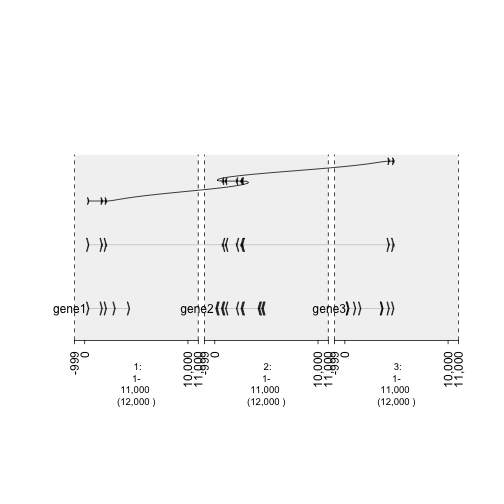
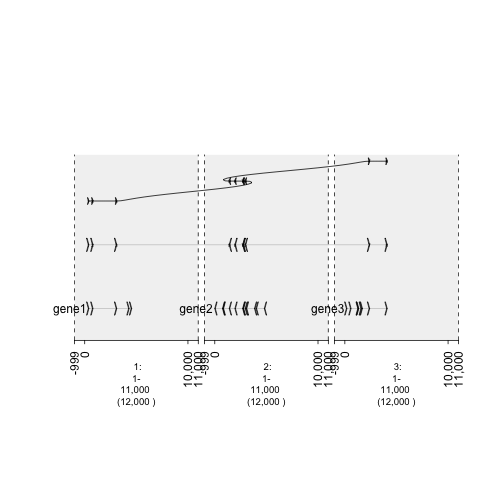
edit hotspots vignette

diff --git a/rtdocs/vignetteHotspots/vignetteHotspots.rst b/rtdocs/vignetteHotspots/vignetteHotspots.rst
@@ -15,9 +15,38 @@ To simulate the draw.paths and gr.labelfield parameters, a GRangesList storing R
     
 
     gene1 = sort(sample(gr.tile(parse.gr('1:1-5e3+'), 50), 5))
-    gene2 = rev(sort(sample(gr.tile(parse.gr('2:1-5e3-'), 50), 12)))
-    gene3 = sort(sample(gr.tile(parse.gr('3:1-5e3+'), 50), 8))
+
+
+::
+
+    ## Error in (function (classes, fdef, mtable) : unable to find an inherited method for function 'values<-' for signature '"GRanges"'
+
+
+.. sourcecode:: r
     
+
+    gene2 = rev(sort(sample(gr.tile(parse.gr('2:1-5e3-'), 50), 12)))
+
+
+::
+
+    ## Error in (function (classes, fdef, mtable) : unable to find an inherited method for function 'values<-' for signature '"GRanges"'
+
+
+.. sourcecode:: r
+    
+
+    gene3 = sort(sample(gr.tile(parse.gr('3:1-5e3+'), 50), 8))
+
+
+::
+
+    ## Error in (function (classes, fdef, mtable) : unable to find an inherited method for function 'values<-' for signature '"GRanges"'
+
+
+.. sourcecode:: r
+    
+
     ##Create a column that keeps track of the exons
     
     gene1$exon = 1:length(gene1)
@@ -28,20 +57,72 @@ To simulate the draw.paths and gr.labelfield parameters, a GRangesList storing R
     grl = GRangesList(gene1 = gene1, gene2 = gene2, gene3 = gene3)
     
     gt.genes = gTrack(grl)
+
+
+::
+
+    ## Warning in `[<-`(`*tmp*`, null.ix, value = list(<S4 object of class
+    ## structure("GRangesList", package = "GenomicRanges")>)): implicit list
+    ## embedding of S4 objects is deprecated
+
+
+.. sourcecode:: r
     
+
     ## Plot but, show how **effective** draw.paths and gr.labelfield can be.
     fusion = GRangesList(c(grl$gene1[1:3], grl$gene2[5:9], grl$gene3[7:8]))
     gt.fusion = gTrack(fusion, draw.paths = FALSE, gr.labelfield = 'exon')
-    gt.fusion.o = gTrack(fusion, draw.paths = TRUE, gr.labelfield = 'exon')
+
+
+::
+
+    ## Warning in `[<-`(`*tmp*`, null.ix, value = list(<S4 object of class
+    ## structure("GRangesList", package = "GenomicRanges")>)): implicit list
+    ## embedding of S4 objects is deprecated
+
+
+.. sourcecode:: r
     
+
+    gt.fusion.o = gTrack(fusion, draw.paths = TRUE, gr.labelfield = 'exon')
+
+
+::
+
+    ## Warning in `[<-`(`*tmp*`, null.ix, value = list(<S4 object of class
+    ## structure("GRangesList", package = "GenomicRanges")>)): implicit list
+    ## embedding of S4 objects is deprecated
+
+
+.. sourcecode:: r
+    
+
     ## separating the windows for the graph. 
-    win = parse.gr(c('1:1-1e4', '2:1-1e4', '3:1-1e4'))
+    win = gUtils::parse.gr(c('1:1-1e4', '2:1-1e4', '3:1-1e4'))
+
+
+::
+
+    ## Warning in hg_seqlengths(): hg_seqlengths: supply genome
+    ## seqlengths or set default with env variable DEFAULT_BSGENOME (e.g.
+    ## Sys.setenv(DEFAULT_BSGENOME = "BSgenome.Hsapiens.UCSC.hg19::Hsapiens").
+    ## DEFAULT_BSGENOME can also be set to a path or URL of a tab delimited text
+    ## *.chrom.sizes file
+
 
 
 .. sourcecode:: r
     
 
     plot(c(gt.genes, gt.fusion, gt.fusion.o), win +1e3)
+
+
+::
+
+    ## Warning in `[<-`(`*tmp*`, null.ix, value = list(<S4 object of class
+    ## structure("GRangesList", package = "GenomicRanges")>, : implicit list
+    ## embedding of S4 objects is deprecated
+
 
 .. figure:: figure/-plotList-1.png
     :alt: plot of chunk -plotList
@@ -65,7 +146,23 @@ To **highlight** regions that are copy number variations, we first need to creat
     hotspots = sample(length(tiles), 5)
     
     d = values(distanceToNearest(tiles, tiles[hotspots]))$distance
+
+
+::
+
+    ## Error in (function (classes, fdef, mtable) : unable to find an inherited method for function 'values' for signature '"SortedByQueryHits"'
+
+
+.. sourcecode:: r
+    
+
     prob = .05 + exp(-d^2/10000)
+
+
+::
+
+    ## Error in eval(expr, envir, enclos): object 'd' not found
+
 
 
 .. sourcecode:: r
@@ -76,7 +173,7 @@ To **highlight** regions that are copy number variations, we first need to creat
 
 ::
 
-    ## Error in sample.int(length(x), size, replace, prob): incorrect number of probabilities
+    ## Error in sample.int(length(x), size, replace, prob): object 'prob' not found
 
 
 .. sourcecode:: r
